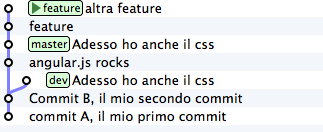
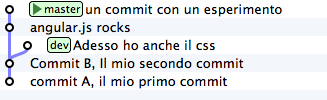
rebase finished and to be reviewed

diff --git a/git.md b/git.md
@@ -620,7 +620,7 @@ Infatti, molti raccontano che git sia capace di riscrivere la storia e che quest
 
 Voglio farti vedere un'altra magia del `cherry-pick`, per dissipare il velo di mistero di cui è inspiegabilmente circondato il comando `rebase`.
 
-Riprendi il tuo `repository` e torna a sviluppare i tuoi css sul ramo `dev`
+Riprendi il tuo `repository`. Mettiamo che ti vada di proseguire a sviluppare i tuoi css, per cui farai un nuovo commit su `dev`
 
 ![Alt tex1](img/rebase-1.png)
 
@@ -631,30 +631,37 @@ Riprendi il tuo `repository` e torna a sviluppare i tuoi css sul ramo `dev`
 
 ![Alt tex1](img/rebase-2.png)
 
-Ottimo. I tuoi css sono perfetti. Peccato che il ramo `dev` sia rimasto un po' indietro rispetto alla `feature`. Del resto, cosa potevi fare? Quando hai staccato il ramo `dev` il ramo `feature` ancora non esisteva.
+Ottimo. I tuoi css sono perfetti. Peccato che il ramo `dev` sia rimasto un po' indietro rispetto a `master`. Del resto, cosa potevi farci? `master` è andato avanti e `dev` è rimasto lì dove lo avevi creato.
 
-Certo, se esistesse il modo di riapplicare le modifiche dei css al ramo `feature`… Cioè, se si potesse spostare il ramo dev *sopra* feature…
+Certo, se si potesse spostare il ramo `dev` *sopra* `master`…
 
-Ti torna in mente `cherry-pick`. Dai, è un caso come quello precedente: solo che invece di viaggiare nel passato devi avere un po' di fantasia e immaginare di viaggiare nel futuro. Riscrivi la storia facendo come se i commit di `dev` siano stati scritti *dopo* la creazione di `feature`. 
+Non ti torna in mente `cherry-pick`? È un caso come quello precedente: solo che invece di viaggiare nel passato devi avere un po' di fantasia e immaginare di viaggiare nel futuro. Devi riportare i `commit` di `dev` (scritti nel passato) sull'ultimo commit di `master`, che relativamente a `dev` è il futuro.
 
-Vai su `feature` e spostaci il ramo `dev`. Come sempre, avrai bisogno dei valori delle chiavi dei 2 commit di dev
+Cioè: riscrivi la storia facendo come se i commit di `dev` siano stati scritti *dopo* i `commit` di `master`. 
 
->git log dev --oneline<br/>
->**eaca9a5** i link sono rossi<br/>
->**6bd333b** Adesso ho anche il css<br/>
->84b2d68 Commit B, il mio secondo commit<br/>
->eafbb9f commit A, il mio primo commit<br/>
+Ok. Si tratta di spostare 2 `commit`. A colpi di `cherry-pick` sposterai i due commit del ramo blue sopra `master`.
 
->git checkout feature<br/>
->git branch -f dev<br/>
->git checkout dev
+Il risultato sarà questo:
 
 ![Alt tex1](img/rebase-3.png)
 
-Ok. Adesso `dev` è insieme a `feature`. Se ci riporti i 2 `commit` originari, farai come se questi fossero stati creati *dopo* la creazione di `feature`.
+Confrontalo con la situazione di partenza
 
->git cherry-pick 6bd333b<br/>
->git cherry-pick eaca9a5<br/>
+![Alt tex1](img/rebase-2.png)
+
+Vedi cosa è successo? Il ramo `dev`, è stato staccato ed è stato impiantato sopra master.
+
+Uno shortcut per evitare di spostare un `commit` alla volta da un ramo all'altro è il comando `git-rebase`.
+
+Applicato al `repository`
+
+![Alt tex1](img/rebase-2.png)
+
+> git rebase master
+
+dice a git: "sposta il ramo corrente su una nuova base, su `master`".<br/>
+Sotto sotto, git non fa altro che una serie di `cherry-pick`: prende tutti i `commit` di `dev` che `master` ancora non ha e ce li applica in ordine.
+
 
 
 * il merge
